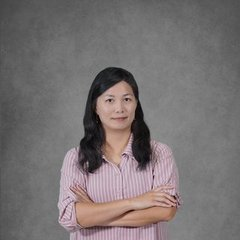
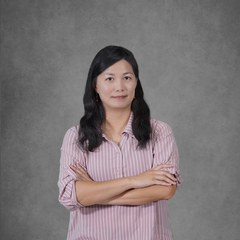
Visual-first case pages with deck imagery

Changed region(s): [[0.2333, 0.175, 0.7583, 1.0]]

diff --git a/index.html b/index.html
@@ -45,7 +45,7 @@
       <p>Finny Chiu · UIUX Designer</p>
     </div>
     <div class="about-card about-card-with-photo">
-      <img class="portrait-sm" src="images/finny-portrait.jpg" alt="Finny Chiu" width="112" height="112">
+      <img class="portrait-sm" src="images/finny-portrait.jpg" alt="Finny Chiu" width="140" height="140">
       <div>
         <h3>設計理念</h3>
         <p>科技本該讓生活更簡單，但過去的軟體系統往往伴隨著複雜的學習曲線。面對 AI 時代，設計的關鍵在於如何將 AI 與介面完美融合，創造出前所未見的流暢體驗。運用以人為本的思維，讓 AI 作為系統的內核驅動力，並透過簡潔、自然、富有人性溫度的介面呈現出來——讓科技不再需要說明書，而是成為每個人指尖下最直覺、最懂你的協作夥伴。</p>
@@ -131,7 +131,7 @@
       </div>
     </a>
     <a class="card" href="projects/aiops-market-research.html">
-      <div class="card-cover"><img src="images/aiops-market-research/img01_journey.png" alt="智能維運產品市場研究" loading="lazy"></div></div>
+      <div class="card-cover"><img src="images/aiops-market-research/img01_journey.png" alt="智能維運產品市場研究：AIOps 競品旅程與零信任脈絡" loading="lazy"></div>
       <div class="card-body">
         <div class="card-meta"><span class="tag">AIOps</span><span class="tag">Competitive Research</span><span class="tag">User Journey</span><span class="tag">Product Strategy</span><span class="tag">Cybersecurity Context</span></div>
         <h3>智能維運產品市場研究：AIOps 競品旅程與零信任脈絡</h3>

diff --git a/css/styles.css b/css/styles.css
@@ -532,10 +532,11 @@ section .prose, section .wrap.prose { padding-bottom: 2rem; }
   align-items: start;
 }
 .portrait-sm {
-  width: 112px;
-  height: 112px;
+  width: 140px;
+  height: 140px;
   border-radius: 50%;
   object-fit: cover;
+  object-position: center top;
   border: 2px solid var(--border-strong);
   box-shadow: 0 8px 24px rgba(0,0,0,0.35);
   flex-shrink: 0;
@@ -557,7 +558,10 @@ section .prose, section .wrap.prose { padding-bottom: 2rem; }
 }
 @media (max-width: 800px) {
   .about-card-with-photo {
-    grid-template-columns: 1fr;
+    grid-template-columns: auto 1fr;
   }
-  .portrait-sm { width: 96px; height: 96px; }
+  .about-card-with-photo .about-aside {
+    grid-column: 1 / -1;
+  }
+  .portrait-sm { width: 120px; height: 120px; }
 }
